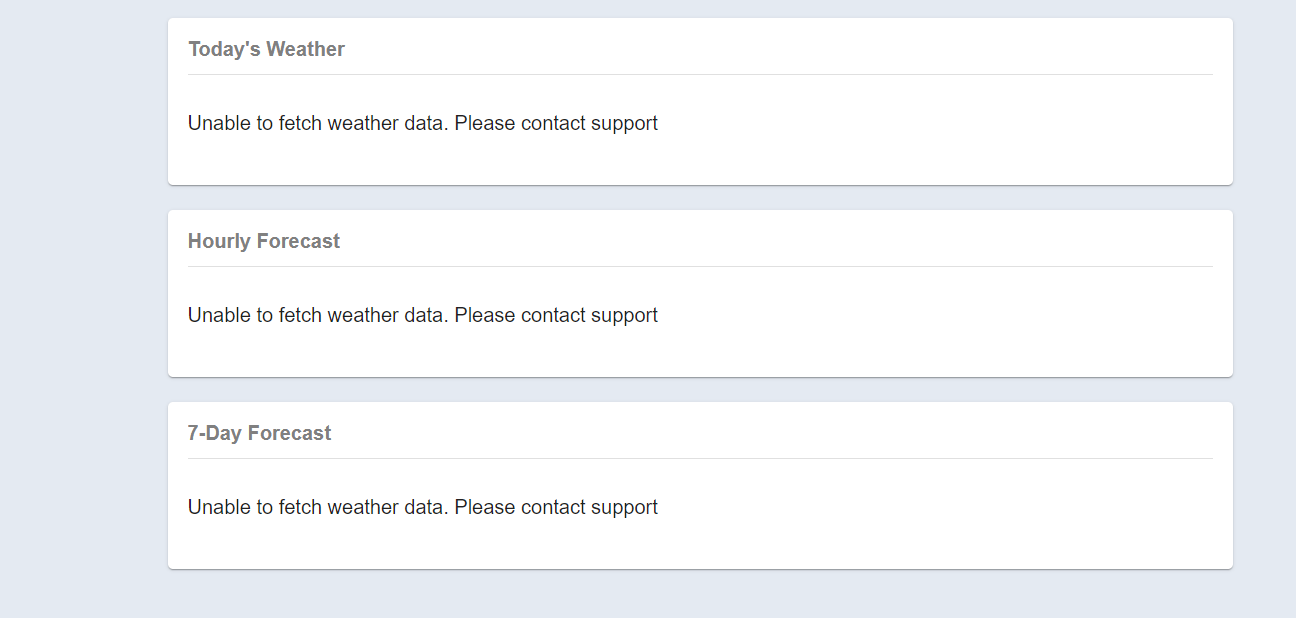
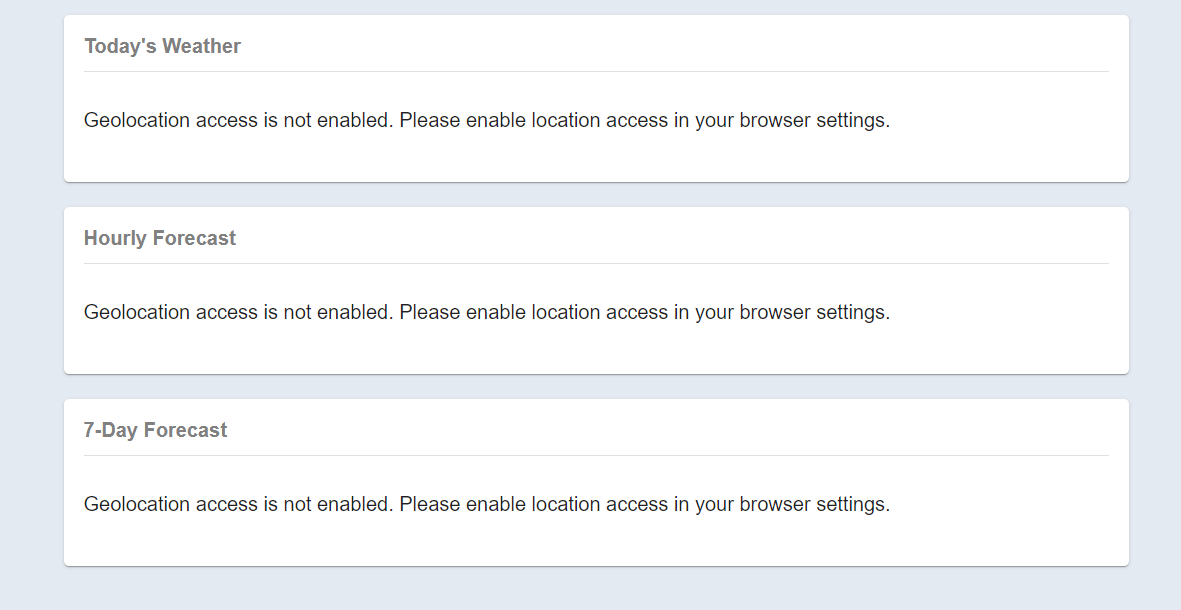
docs: include latest image for error page

Changed region(s): [[0.0305, 0.0, 0.9754, 0.6541], [0.0305, 0.6541, 0.9754, 0.9344]]

diff --git a/README.md b/README.md
@@ -46,11 +46,11 @@
 
 1. Location not enabled from browser
 
-![location error](docs/error2.png)
+![location error](docs/error1.png)
 
 2. Server error
 
-![Server error](docs/error1.png)
+![Server error](docs/error2.png)
 
 
 ### Technology Stack:
